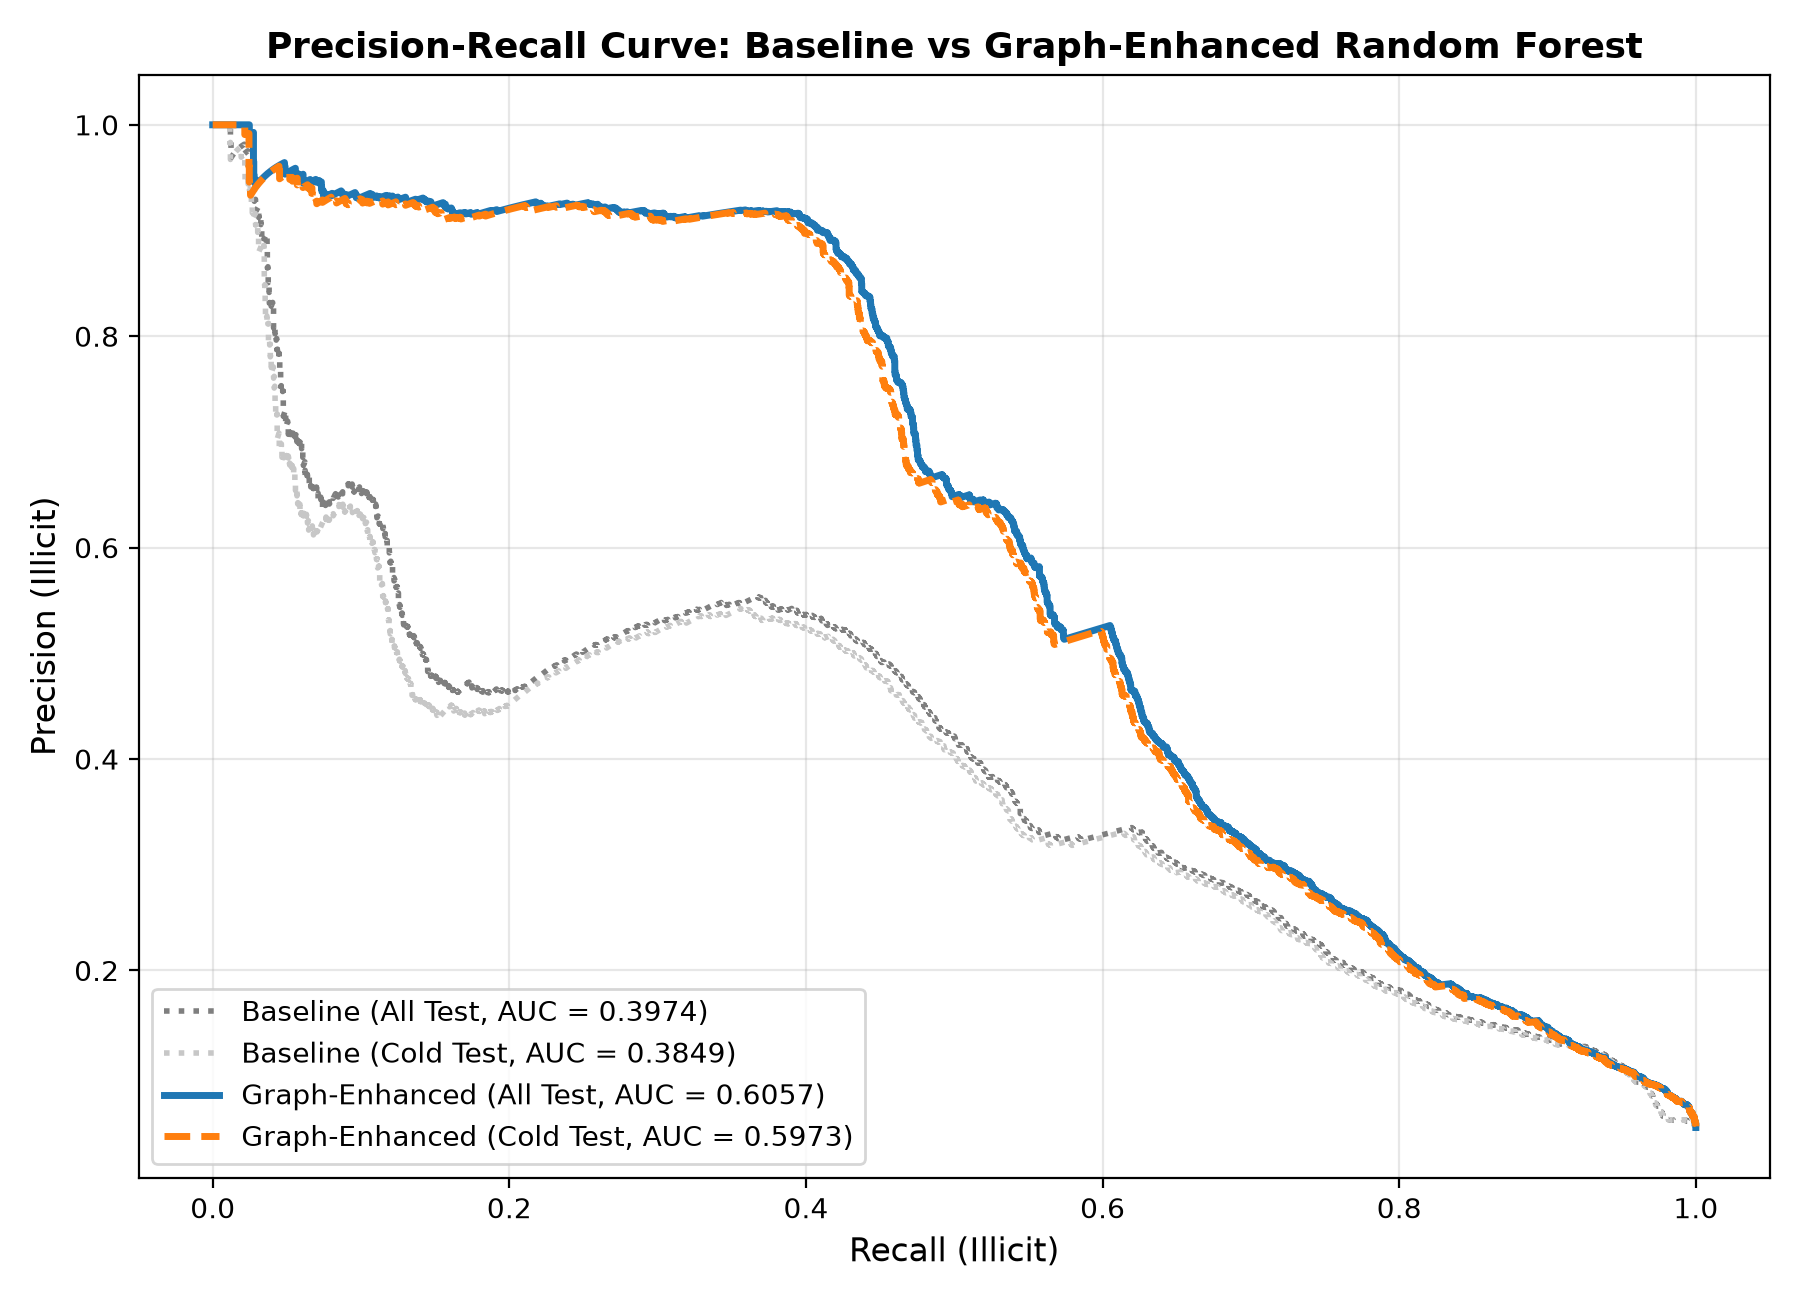
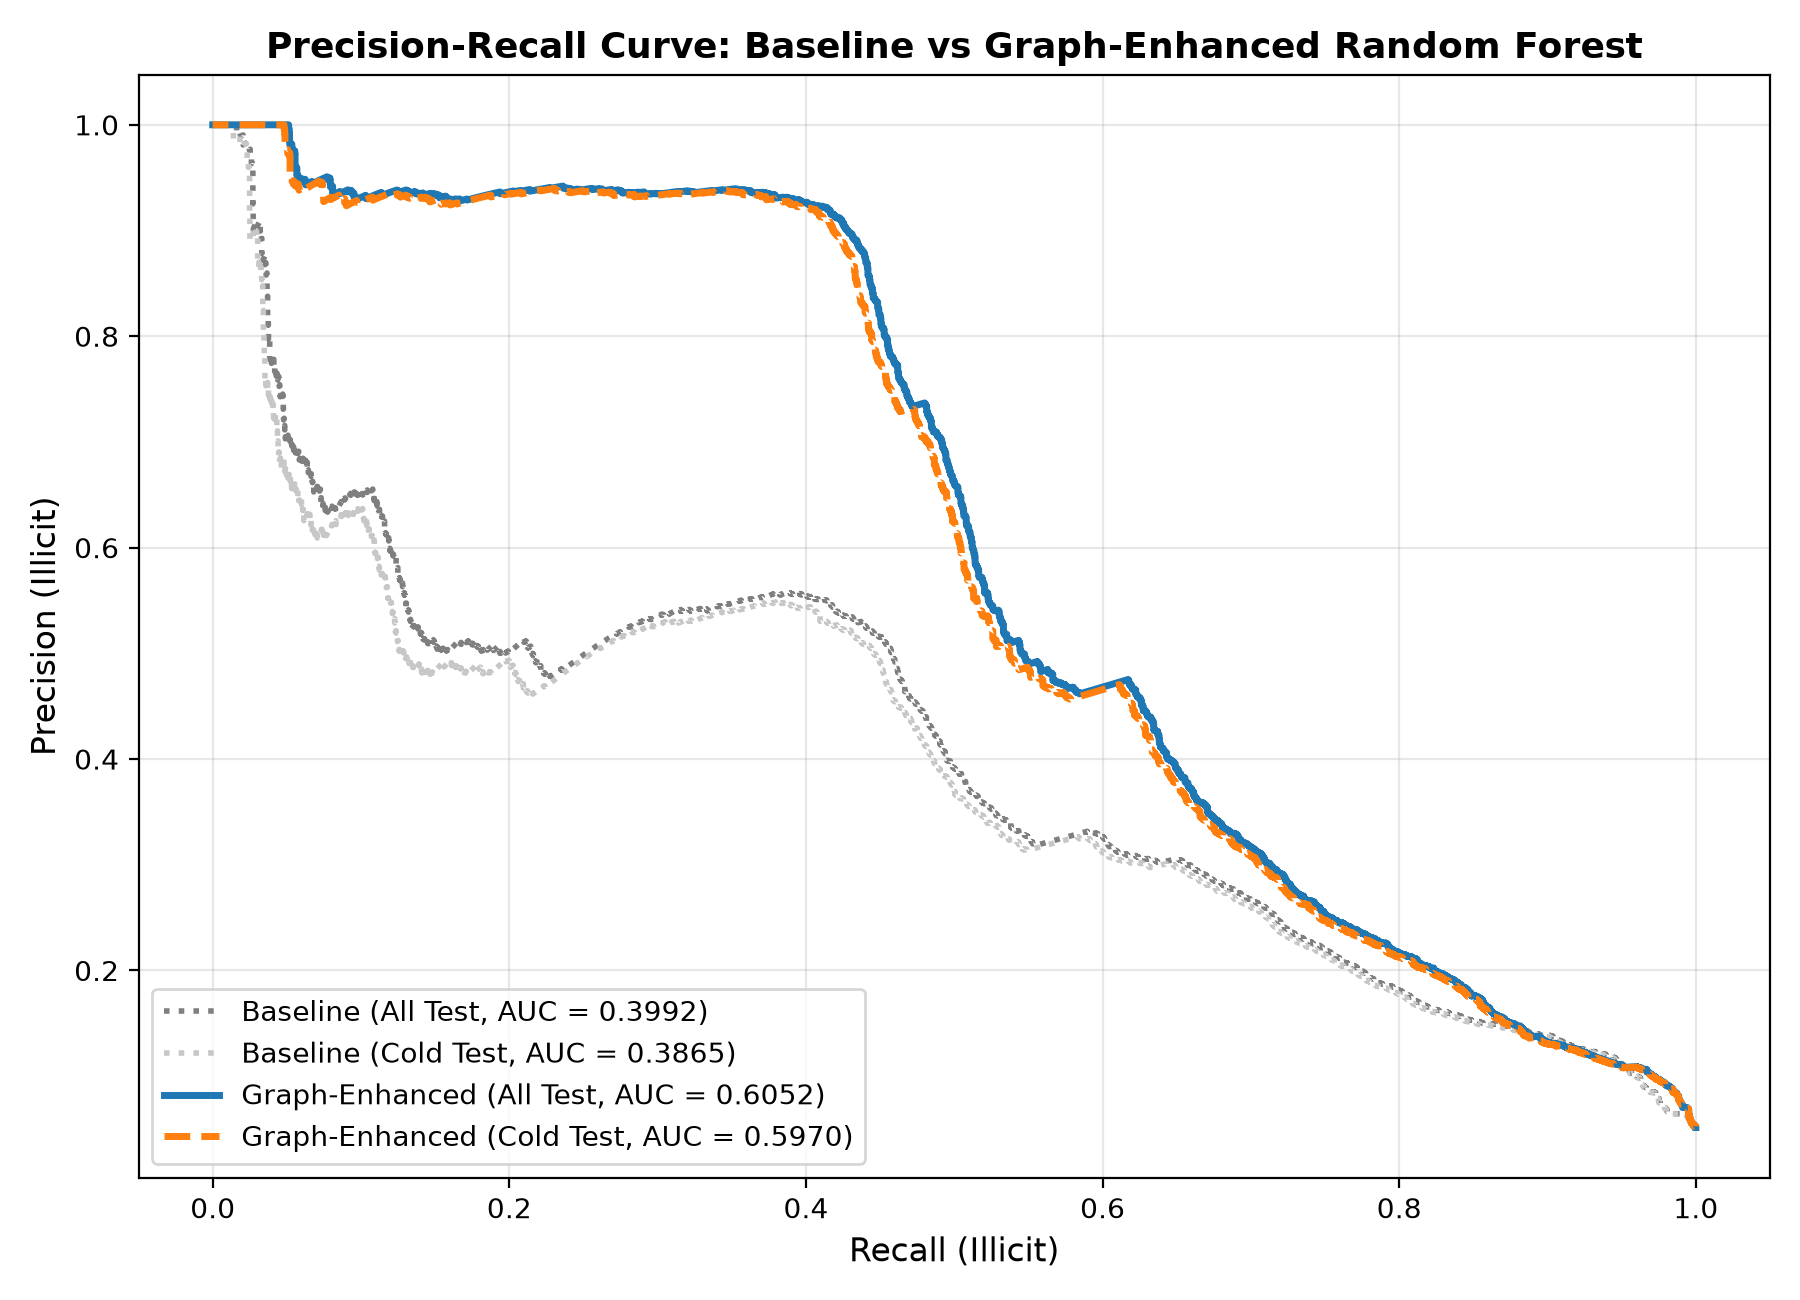
Align model artifacts and metrics with scikit-learn 1.8.0

diff --git a/reports/RESULTS.md b/reports/RESULTS.md
@@ -39,10 +39,10 @@ Auto-generated by `scripts/04_make_results.py`. Do not edit by hand.
 
 | Metric | Baseline (All Test) | Baseline (Cold Test) | Graph-Enhanced (All Test) | Graph-Enhanced (Cold Test) |
 | :--- | ---: | ---: | ---: | ---: |
-| **Precision** | 0.5530 | 0.5429 | 0.8073 | 0.8028 |
-| **Recall** | 0.3675 | 0.3578 | 0.4479 | 0.4395 |
-| **F1 Score** | 0.4416 | 0.4313 | 0.5762 | 0.5680 |
-| **PR-AUC** | 0.3974 | 0.3849 | 0.6057 | 0.5973 |
+| **Precision** | 0.5488 | 0.5386 | 0.8129 | 0.8085 |
+| **Recall** | 0.3524 | 0.3424 | 0.4505 | 0.4421 |
+| **F1 Score** | 0.4292 | 0.4187 | 0.5797 | 0.5716 |
+| **PR-AUC** | 0.3992 | 0.3865 | 0.6052 | 0.5970 |
 | **Evaluated Rows** | 97,756 | 94,199 | 97,756 | 94,199 |
 | **Illicit Labels** | 5,023 | 4,947 | 5,023 | 4,947 |
 
@@ -50,11 +50,11 @@ Auto-generated by `scripts/04_make_results.py`. Do not edit by hand.
 
 | Split | Baseline Model (55 features) | Graph-Enhanced Model (60 features) |
 | :--- | :--- | :--- |
-| **All Test Rows** | TP=1,846, FP=1,492, FN=3,177, TN=91,241 | TP=2,250, FP=537, FN=2,773, TN=92,196 |
-| **Cold Test Subset** | TP=1,770, FP=1,490, FN=3,177, TN=87,762 | TP=2,174, FP=534, FN=2,773, TN=88,718 |
+| **All Test Rows** | TP=1,770, FP=1,455, FN=3,253, TN=91,278 | TP=2,263, FP=521, FN=2,760, TN=92,212 |
+| **Cold Test Subset** | TP=1,694, FP=1,451, FN=3,253, TN=87,801 | TP=2,187, FP=518, FN=2,760, TN=88,734 |
 
 ### Honest Assessment of Graph Features Impact
 
-- **F1 Delta (All Test)**: +0.1346 (Baseline 0.4416 -> Graph-Enhanced 0.5762)
-- **PR-AUC Delta (All Test)**: +0.2083 (Baseline 0.3974 -> Graph-Enhanced 0.6057)
+- **F1 Delta (All Test)**: +0.1505 (Baseline 0.4292 -> Graph-Enhanced 0.5797)
+- **PR-AUC Delta (All Test)**: +0.2060 (Baseline 0.3992 -> Graph-Enhanced 0.6052)
 

diff --git a/DATA_NOTES.md b/DATA_NOTES.md
@@ -327,3 +327,12 @@ Recorded following the completion of P2 VASP attribution index and training of t
   - `112iinUjrcCERfyfXcXrTYjKHHuwSJ1XYh`: 29.5 ms (Risk Score: 0.0827, Method: `importance_x_deviation`)
   - `1121A3vrYYduVPMnfS87ieHFP2bwy6xriv`: 32.4 ms (Risk Score: 0.0436, Method: `importance_x_deviation`)
 - Latency strictly satisfies SPEC requirement (< 1.0s target).
+
+
+### 5.4 Environment Alignment (scikit-learn 1.8.0)
+- Model artifacts were retrained under `scikit-learn==1.8.0` to match the exact repo-wide pin in `requirements.txt`.
+- No unpickling `InconsistentVersionWarning` occurs when loading models in `scikit-learn==1.8.0`.
+- File sizes: `artifacts/baseline_model.joblib` (16.34 MB), `artifacts/graph_enhanced_model.joblib` (13.81 MB).
+- Test results under 1.8.0:
+  - Baseline (All Test): Precision = 0.5488, Recall = 0.3524, F1 = 0.4292, PR-AUC = 0.3992
+  - Graph-Enhanced (All Test): Precision = 0.8129, Recall = 0.4505, F1 = 0.5797, PR-AUC = 0.6052
